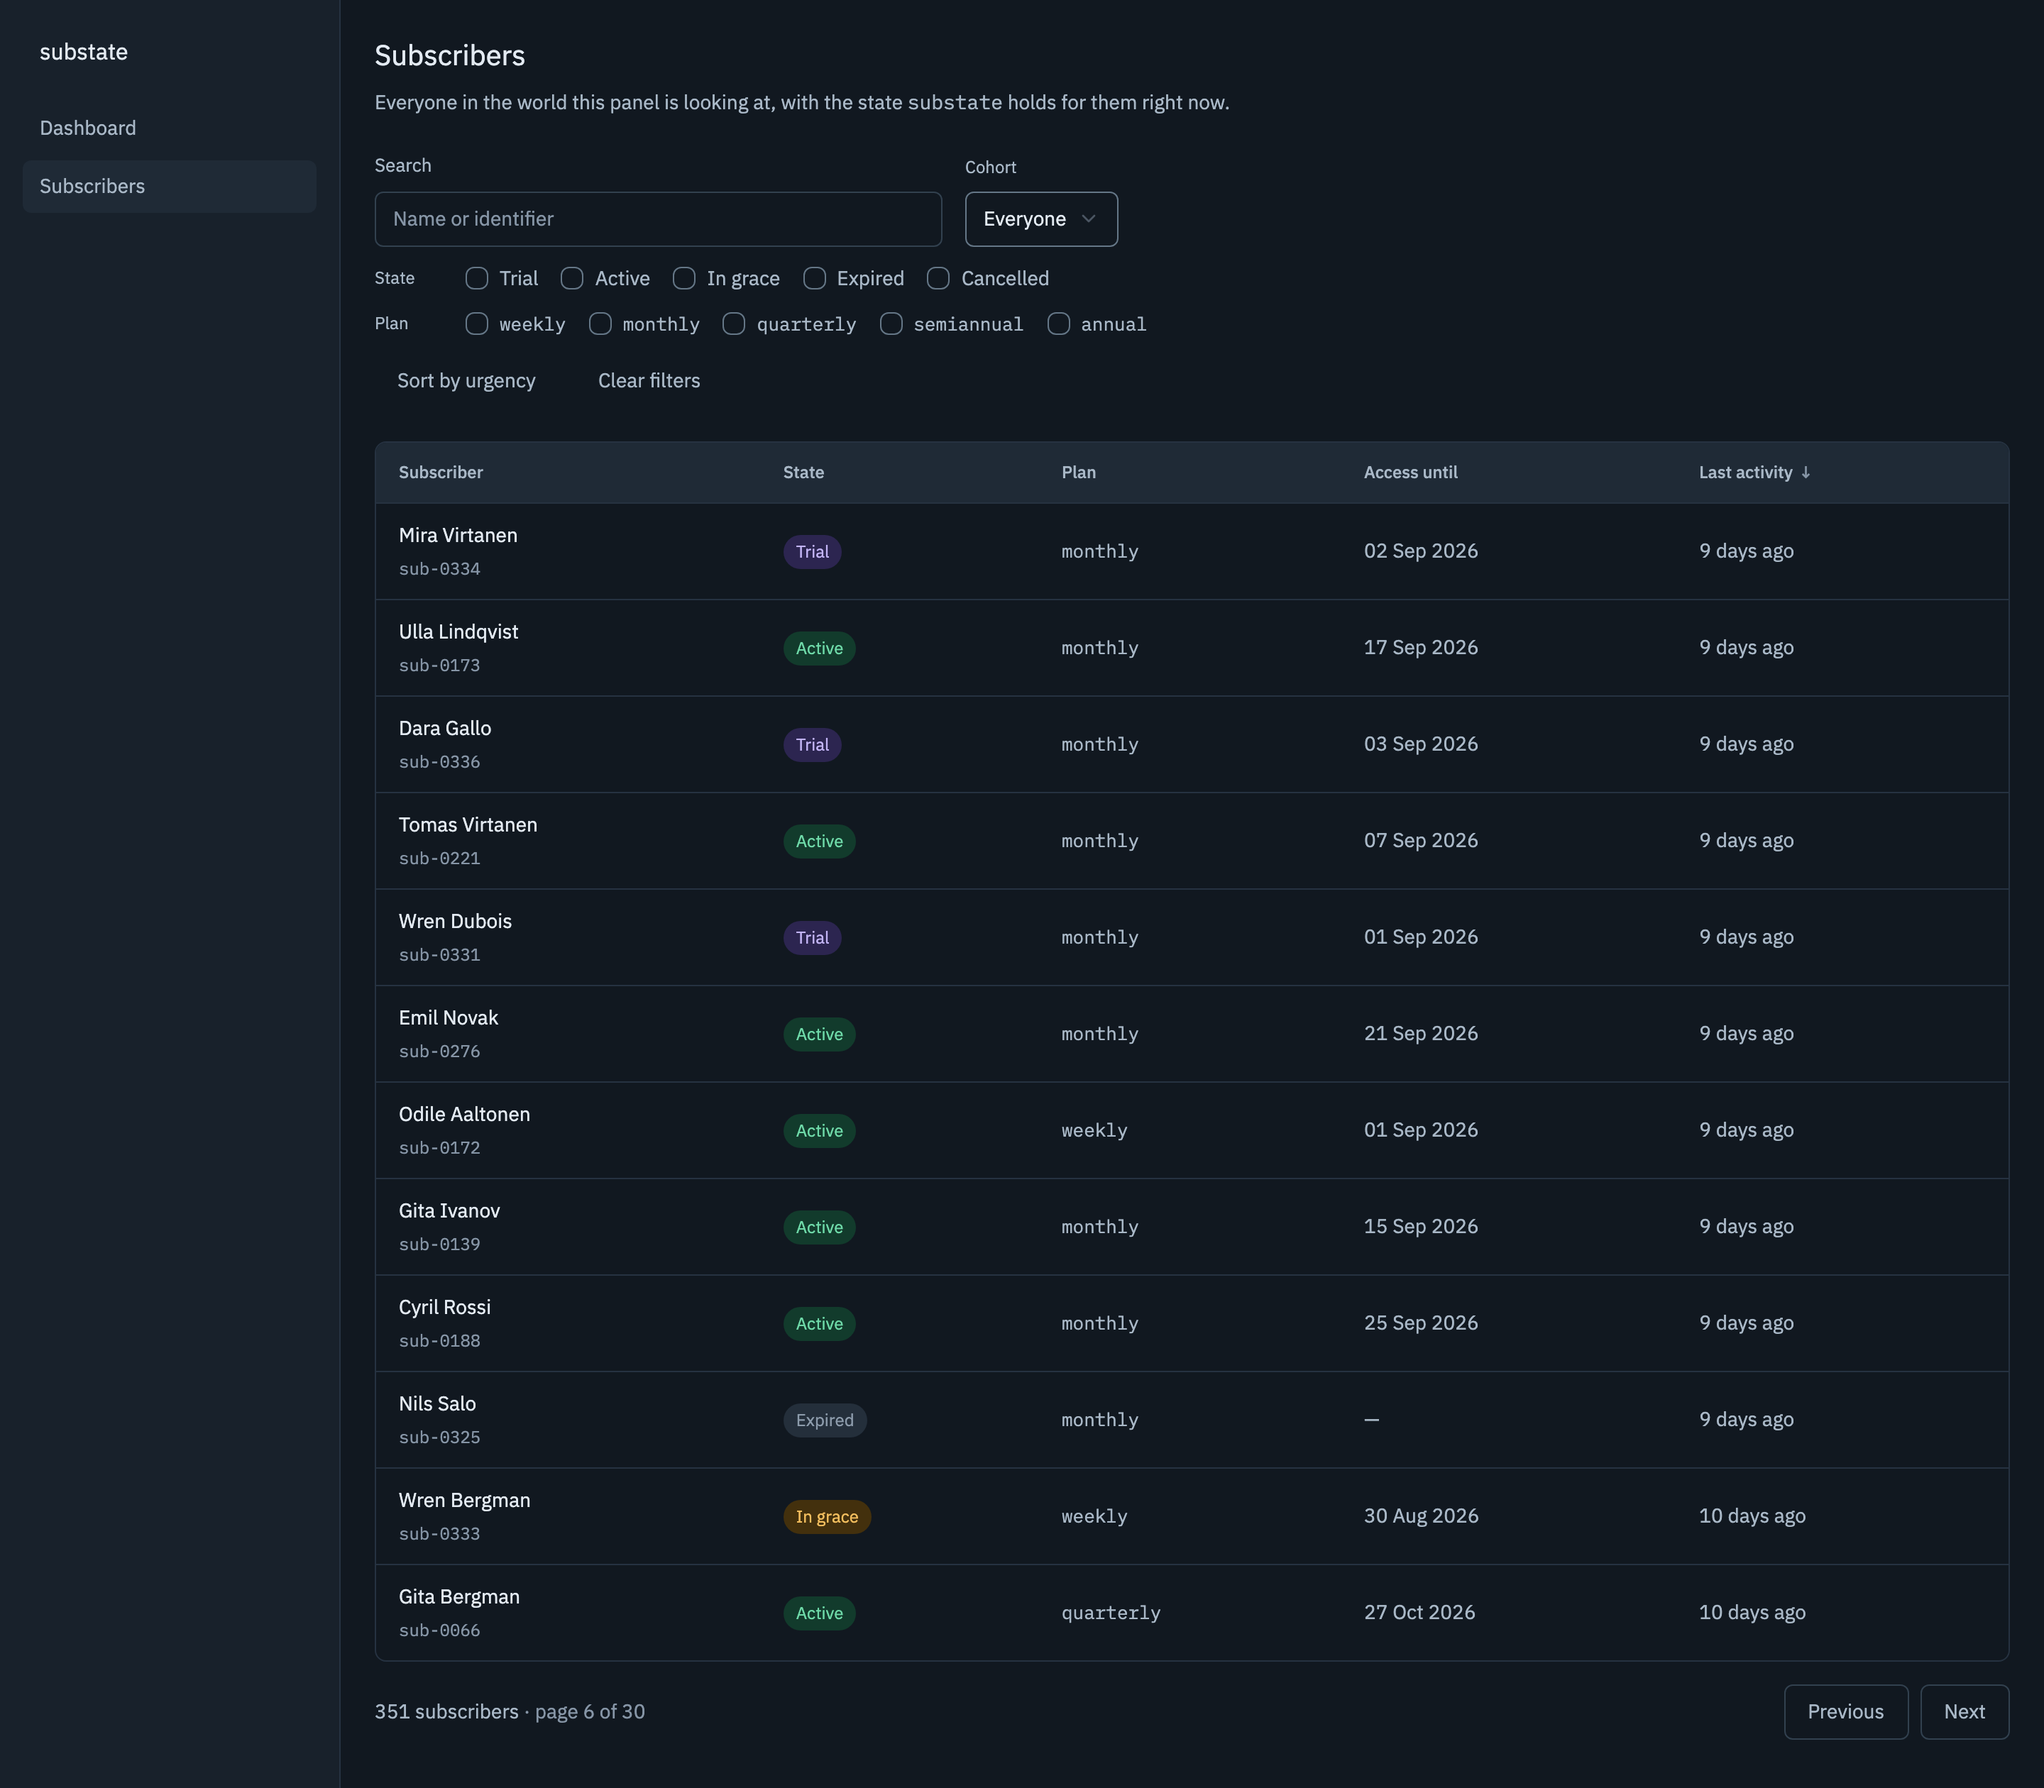
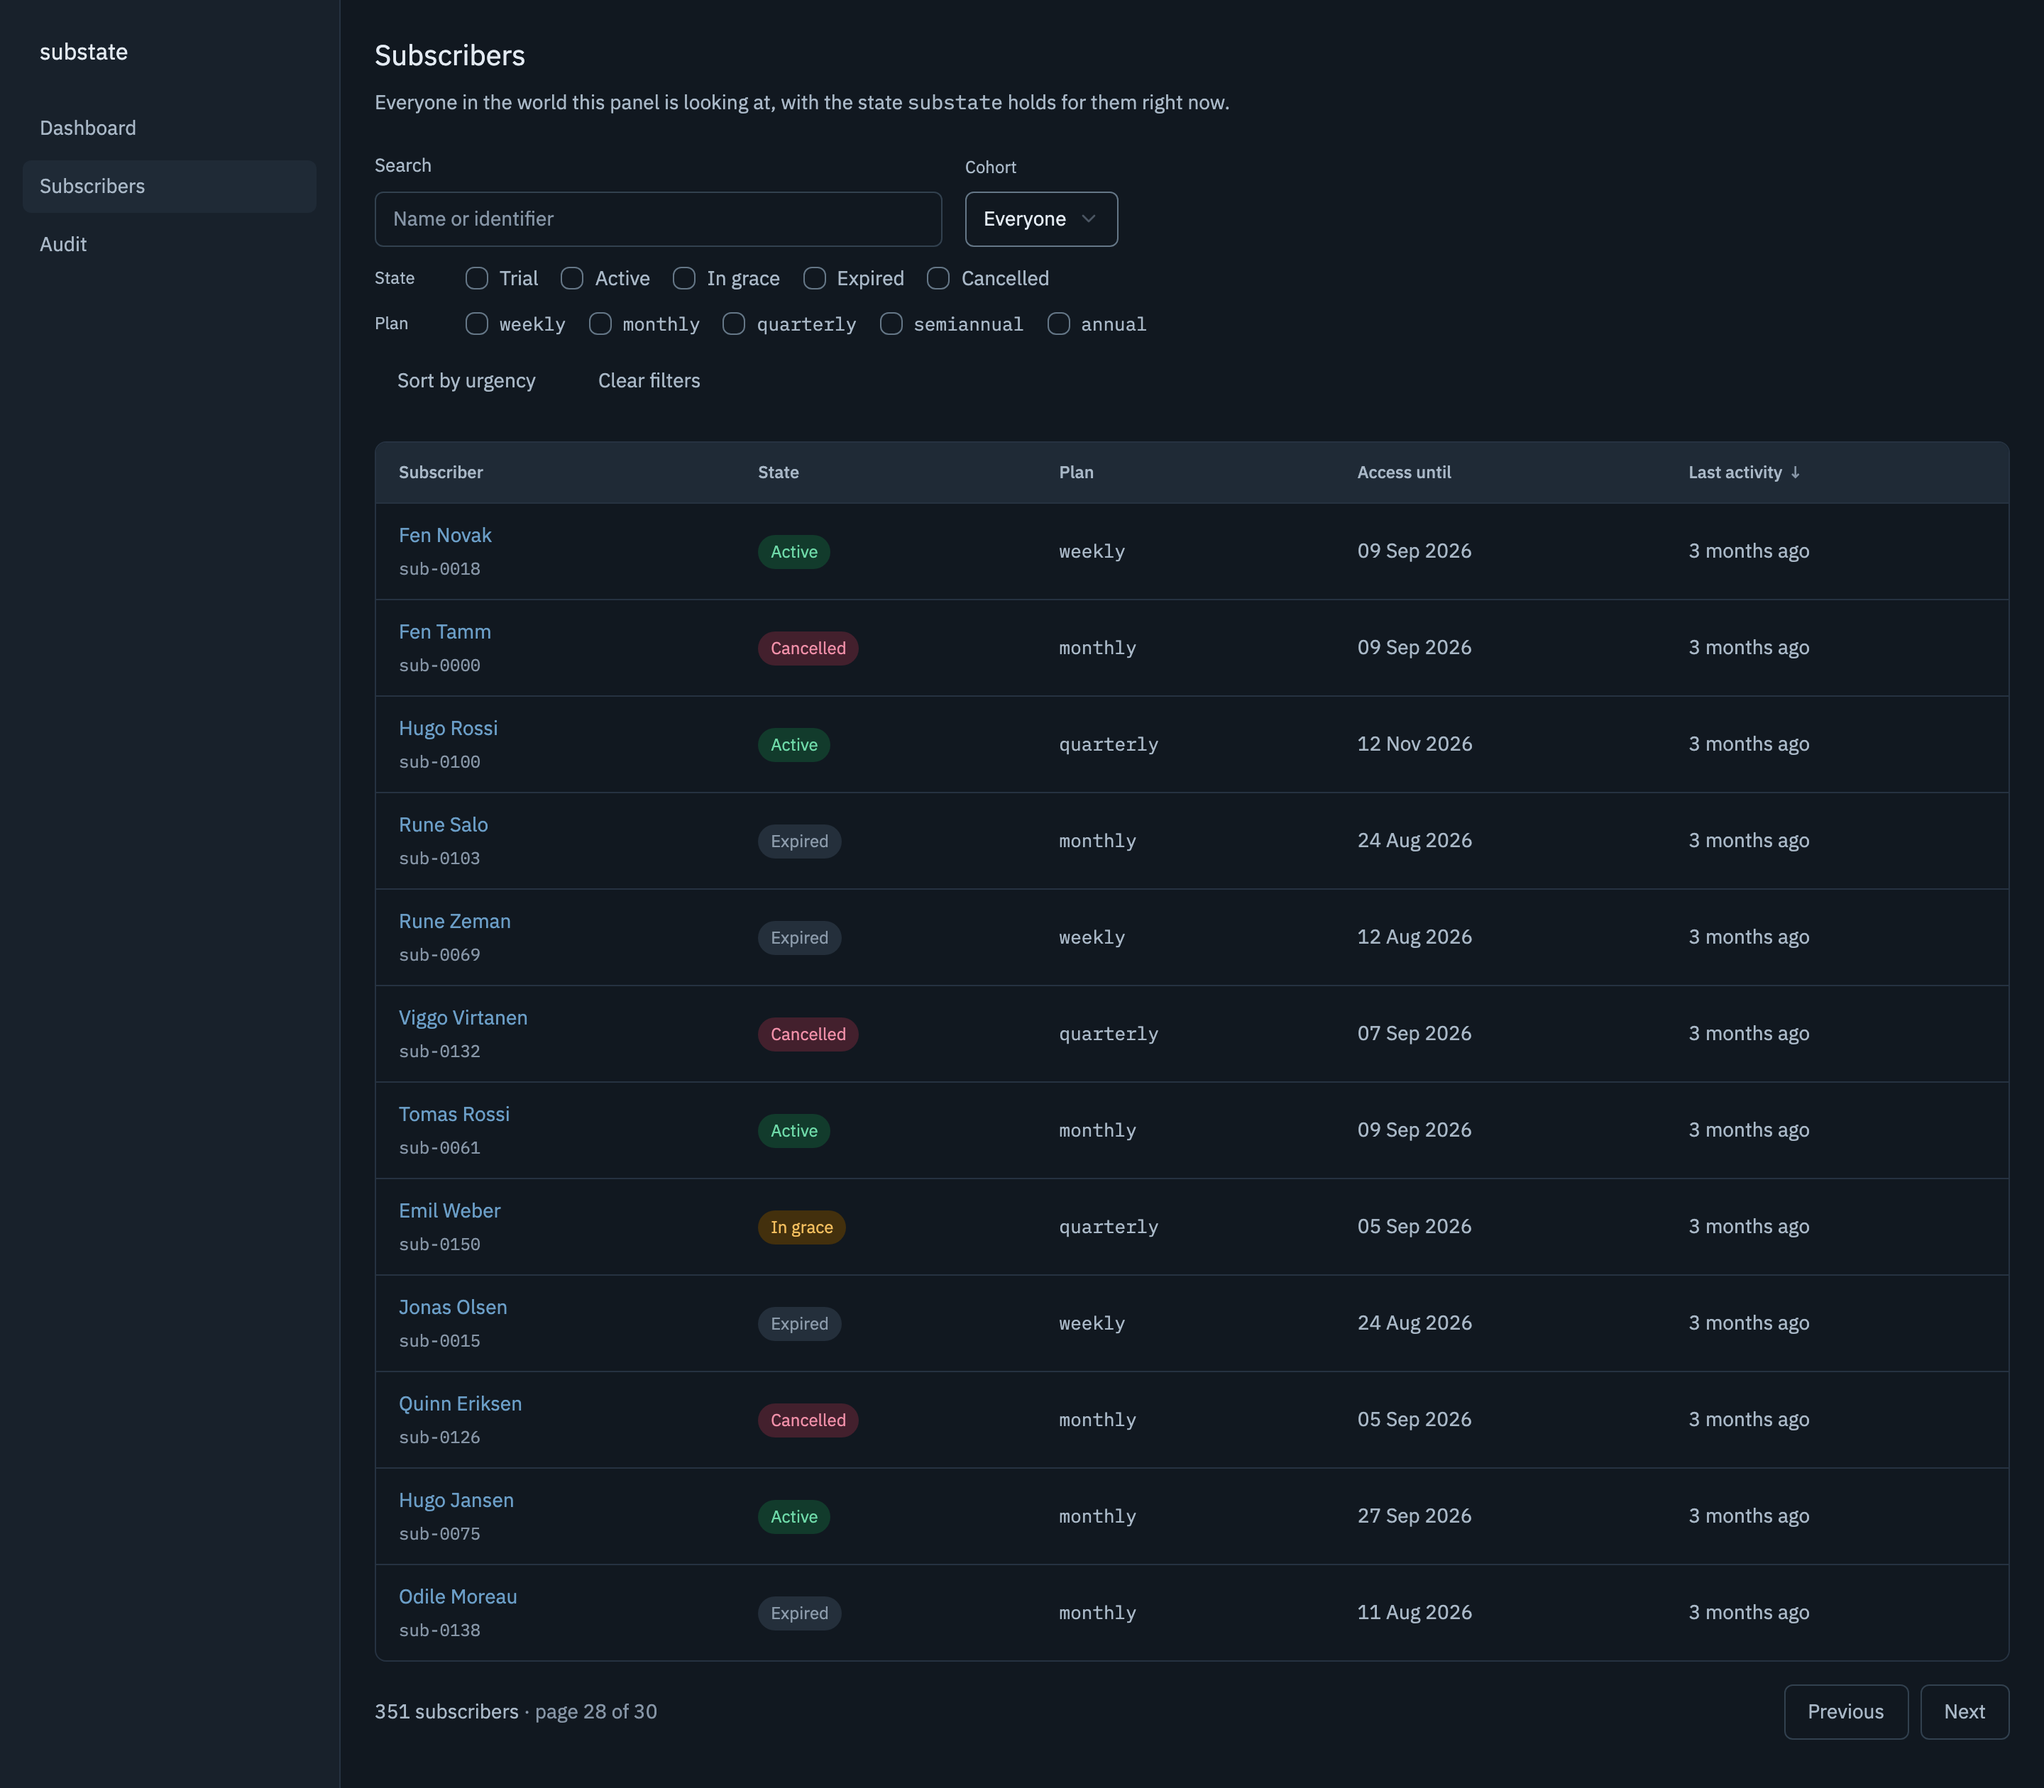
feat(docs): the card is photographed by the application too
The table's frame moved: the world ends now, so which people sit on which page of
an activity-ordered table moves with the calendar. Its own assertion said so.

diff --git a/frontend/capture/subscriber.capture.ts b/frontend/capture/subscriber.capture.ts
@@ -1,0 +1,79 @@
+/**
+ * The second picture in the README: one subscriber's card, with what can be done to them.
+ *
+ * WHY A SECOND SHOT RATHER THAN A WIDER ONE. The table's picture answers "what does this panel
+ * hold"; this one answers "what does it let you do", and those are the two questions somebody
+ * opening the repository has. A single screenshot would have to be one or the other.
+ *
+ * NO SUBSCRIBER IS NAMED HERE. The world is built from one seed, so the population is the same
+ * every run — but it is nine months of history ending now, and the ticker crosses boundaries every
+ * thirty seconds, so which person is in which state moves under a re-shoot. The subject is chosen
+ * from a filtered table, which is a question the world always answers and always with somebody.
+ *
+ * IT ASSERTS WHAT IT PHOTOGRAPHED, for the reason the table's capture records: a shot that only
+ * waits for the page can produce a card still loading, an empty history, or an operations panel
+ * that failed to draw, and the alternative to failing here is finding out from the README.
+ */
+
+import { fileURLToPath } from 'node:url'
+
+import { expect, test } from '@playwright/test'
+
+import { account } from '../playwright.config.ts'
+
+const SHOT = fileURLToPath(new URL('../../docs/subscriber.png', import.meta.url))
+
+/** GRACE is the state the panel is most about: a paying customer whose payment did not arrive, the
+ *  one state with two distinct boundaries, and the one `docs/design.md` says to call today. It is
+ *  also the smallest population — a handful out of three hundred and fifty — so the shot proves
+ *  the filter finds them. */
+const STATE = 'grace'
+
+test('a subscriber card', async ({ page }) => {
+  await page.goto('/')
+  await page.getByLabel('Email', { exact: true }).fill(account.email)
+  await page.getByLabel('Password', { exact: true }).fill(account.password)
+  await page.getByRole('button', { name: 'Sign in', exact: true }).click()
+
+  // Signed in before navigating, not merely asked to be: the access token is held in memory and
+  // the navigation below throws that heap away.
+  await expect(page.getByRole('link', { name: 'Subscribers' })).toBeVisible()
+
+  await page.goto(`/subscribers?state=${STATE}`)
+  const first = page.locator('tbody tr').first()
+  await expect(first).toBeVisible()
+  await first.getByRole('link').click()
+
+  // The two boundaries this state owns, which is the whole argument of the card's layout: the
+  // payment that was missed, and the day access stops.
+  await expect(page.getByText('Paid period ended', { exact: true })).toBeVisible()
+  await expect(page.getByText('Grace ends', { exact: true })).toBeVisible()
+  // And the three it does not.
+  await expect(page.getByText('Trial ends', { exact: true })).toHaveCount(0)
+  await expect(page.getByText('Cancelled', { exact: true })).toHaveCount(0)
+  await expect(page.getByText('Access ended', { exact: true })).toHaveCount(0)
+
+  // Every operation this state offers, enumerated. A picture of a panel missing one of them is a
+  // picture of a different panel.
+  const operations = page.locator('h3')
+  await expect(operations).toHaveText([
+    'Record a payment',
+    'Change plan',
+    'Redeem a promo code',
+    'Assign a referral programme',
+    'Cancel subscription',
+  ])
+
+  // A history with something in it. An empty feed under a card is the one thing this shot must
+  // not show, because it is what a broken journal looks like.
+  const feed = page.locator('table').last().locator('tbody tr')
+  await expect(feed.first()).toBeVisible()
+
+  // In the viewport rather than merely in the document: the screenshot is the window.
+  await expect(page.getByRole('button', { name: 'Record a payment' })).toBeInViewport({ ratio: 1 })
+
+  type Fonts = { document: { fonts: { ready: Promise<unknown> } } }
+  await page.evaluate(() => (globalThis as unknown as Fonts).document.fonts.ready)
+
+  await page.screenshot({ path: SHOT, animations: 'disabled' })
+})

diff --git a/frontend/capture/subscribers.capture.ts b/frontend/capture/subscribers.capture.ts
@@ -29,8 +29,14 @@ const SHOT = fileURLToPath(new URL('../../docs/subscribers.png', import.meta.url
  *
  *  The order is the table's own, and the page is not the first one. Sorted by last activity, page
  *  one is everybody who turned up today — trials and actives, two colours for a column that has
- *  five. Six pages in, the same order holds four of them, and both pager buttons are live. */
-const QUERY = '?page=6&pageSize=12'
+ *  five. Further in, the same order holds four of them, and both pager buttons are live.
+ *
+ *  THE PAGE NUMBER IS RE-CHOSEN WHEN THE CALENDAR MOVES IT, and that is the arrangement rather
+ *  than a maintenance cost. The seed fixes the population; the world is nine months of history
+ *  ending now, so which people sit on which page of an activity-ordered table moves as the days
+ *  do. It was page six; the assertion below is what said so rather than letting the picture
+ *  quietly become a column of one colour. */
+const QUERY = '?page=28&pageSize=12'
 const PAGE_SIZE = 12
 
 test('the subscriber table', async ({ page }) => {
